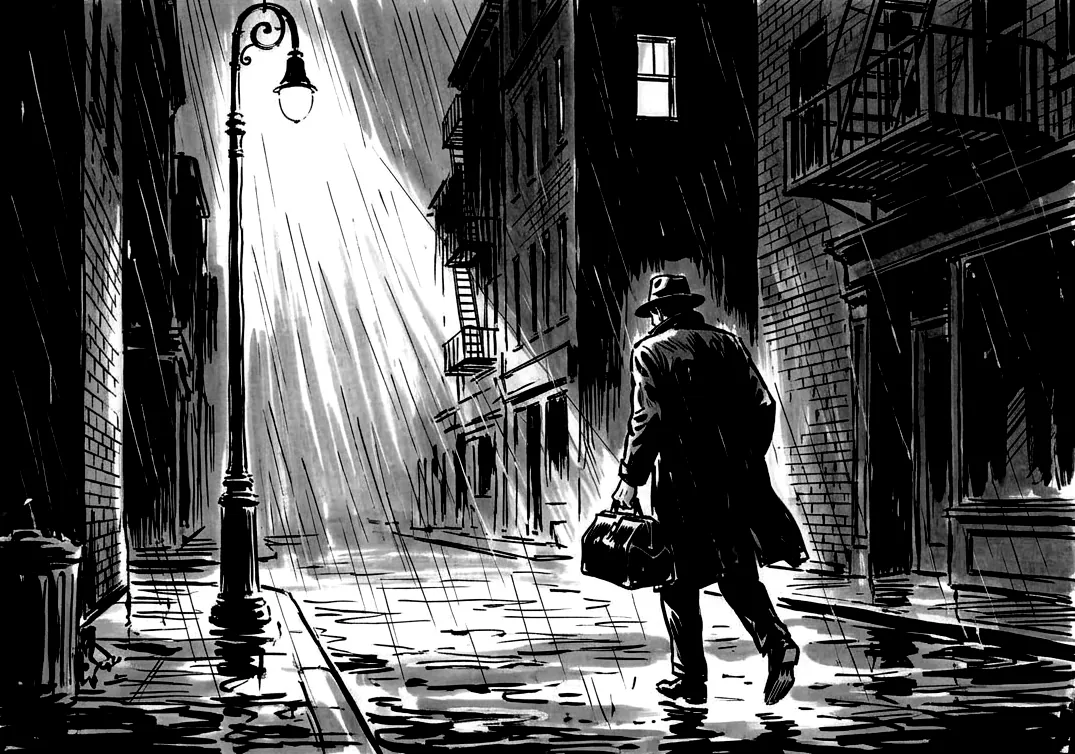
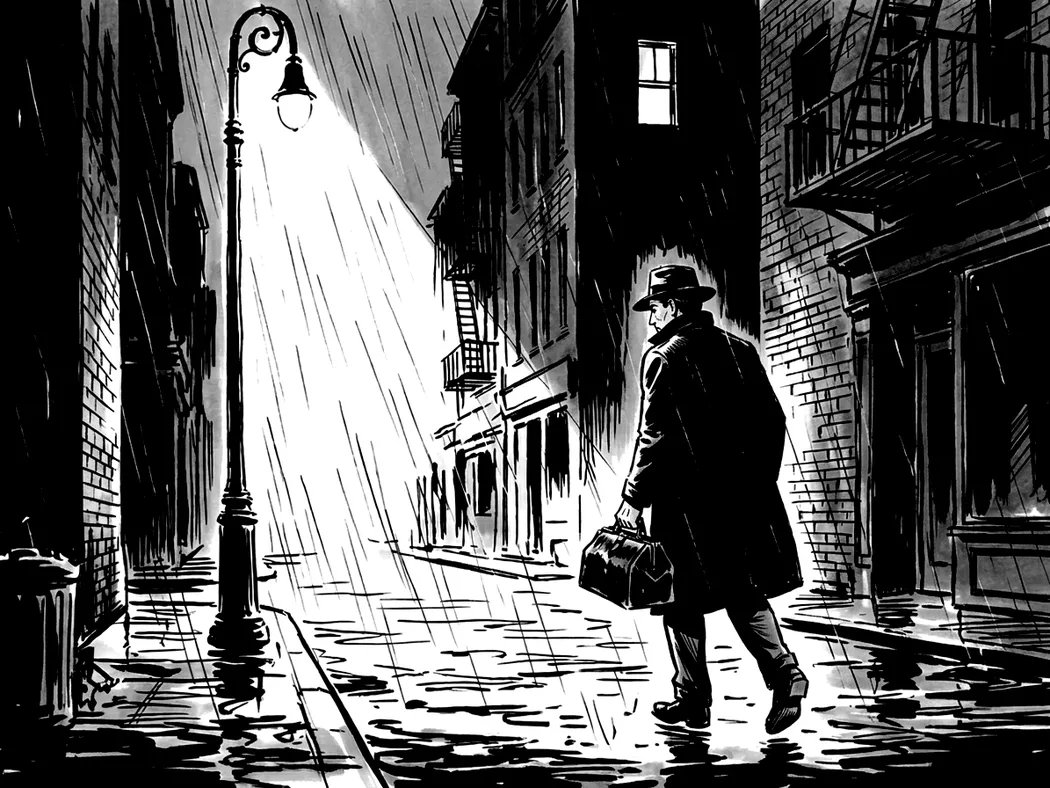
Läkarens nattbilder i den nya stilen med lavering
Jonas gillade utseendet men tyckte att stilen var för murrig
(Jonas 2026-11-14). Bilderna är omritade med de gamla som referens:
vit ljuskägla i stället för grått dis, svarta hus och sparsam lavering.
Mannen är gjord med kvinnans nya bild som referens, så att laveringen
ovanför lampan och längs fasaden blir densamma. Länken i bildsmak.md
pekar nu på den nya sidan Maffia bildprompter.

Claude-Session: https://claude.ai/code/session_01X82C4AptUEE9LHKngPSzUq

diff --git a/src/scenes/sceneImages.js b/src/scenes/sceneImages.js
@@ -113,10 +113,10 @@ export const SCENE_IMAGES = /** @type {const} */ ({
   nightMafia3: { src: nightMafia3, alt: 'En regnig gata med höga hus en natt. Två män i hatt står i en upplyst port, och en bil står parkerad under en gatlykta.', position: '55% 50%' },
   nightDetectiveWoman: { src: nightDetectiveWoman, alt: 'En kvinna i blus sitter vid ett skrivbord under en lampa en regnig natt, med hakan mot handen, och granskar ett fotografi med förstoringsglas.', position: '100% 40%' },
   nightDetectiveMan: { src: nightDetectiveMan, alt: 'En man i skjortärmar sitter vid ett skrivbord under en lampa en regnig natt och granskar ett fotografi med förstoringsglas.', position: '100% 40%' },
-  nightDoctorWoman: { src: nightDoctorWoman, alt: 'En kvinna i kappa med en läkarväska går ensam längs en regnig gata en natt och ser sig över axeln under en gatlykta.', position: '65% 50%' },
+  nightDoctorWoman: { src: nightDoctorWoman, alt: 'En kvinna i ljus kappa med skärp går ensam längs en regnig gata en natt med en läkarväska och ser sig över axeln. En gatlykta lyser upp gatan.', position: '65% 50%' },
   nightBodyguardWoman: { src: nightBodyguardWoman, alt: 'En livvakt i bältad rock och hatt står vakt med händerna i fickorna bredvid en stängd dörr, i ljuset från en gatlykta en regnig natt.', position: '85% 50%' },
   nightBodyguardMan: { src: nightBodyguardMan, alt: 'En stor livvakt i rock och hatt står vakt med händerna i fickorna bredvid en stängd dörr, i ljuset från en gatlykta en regnig natt.', position: '85% 50%' },
-  nightDoctorMan: { src: nightDoctorMan, alt: 'En man i hatt och rock med en läkarväska går ensam längs en regnig gata en natt under en gatlykta.', position: '65% 50%' },
+  nightDoctorMan: { src: nightDoctorMan, alt: 'En man i hatt och mörk rock går ensam bort längs en regnig gata en natt med en läkarväska och ser sig om. En gatlykta lyser upp gatan.', position: '65% 50%' },
   nightLawyerWoman: { src: nightLawyerWoman, alt: 'En advokat i dräkt, liten hatt och kattögonglasögon sitter vid ett köksbord under en hängande lampa och antecknar. Mitt emot syns bara klientens händer med en cigarett.', position: '75% 50%' },
   nightLawyerMan: { src: nightLawyerMan, alt: 'En gråsprängd advokat i kritstrecksrandig kostym sitter vid ett köksbord under en hängande lampa och antecknar. Mitt emot syns bara klientens händer med en cigarett.', position: '75% 50%' },
   nightCitizenWoman: { src: nightCitizenWoman, alt: 'En kvinna sover i sin säng. Genom fönstret syns en gestalt i hatt under en gatlykta i regnet.', position: '65% 50%' },

diff --git a/docs/bildsmak.md b/docs/bildsmak.md
@@ -73,11 +73,11 @@ på `src/scenes/images/`.
    godkända laveringsbilderna har 2,5–10,8 procent. Under gränsen avgör
    ögat vilken sorts grått det är.
    - Gillar, lavering: `roll-detektiv-*`, `natt-detektiv-*`,
-     `roll-taxichauffor-kvinna` (2026-11-14).
+     `roll-taxichauffor-kvinna`, `natt-lakare-*` (2026-11-14).
    - Gillar: `dom-kvinna`, `dom-man`, `roll-bartender-*`, `roll-korvgubbe-*`,
      `morgon-mord-trappa-kvinna`, `skapa`.
-   - Gillar inte: `natt-detektiv-*`, `natt-lakare-*` (grå tvätt över hela
-     bilden).
+   - Gillar inte (de gamla, nu bytta): `natt-detektiv-*`, `natt-lakare-*`
+     (grå tvätt över hela bilden).
    - Gränsfall: `morgon-mord-telefonkiosk-man`. Gillas, eftersom det grå bara
      är regn och glas och personen är svart och vit, men hade varit bättre
      utan.
@@ -219,7 +219,9 @@ en regel.
 
 - 2026-11-14, bildstilen i stort: "Jag är lite nyfiken på om vi skulle kunna
   få till en enhetlig bildstil." Förslaget finns i artefakten Maffia
-  bildprompter (<https://claude.ai/artifact/VXKnzaLmQAV7CQrsZFUDh6>).
+  bildprompter (<https://claude.ai/artifact/JA714wjfNoxPD3UvankR8F>). Den gamla
+  sidan Maffias bildprompter från 2026-11-09 är borttagen, så att de inte
+  blandas ihop (Jonas 2026-11-14).
 - 2026-11-14, text och blod: "Taxi och hotel tycker jag är ok, dvs text o form
   av skyltar som är universella. Pool of black blood tycker jag är ok, annars
   blir det inte en trovärdig bild, och eftersom det är svartvitt känns det
@@ -253,14 +255,19 @@ en regel.
 - 2026-11-14, `roll-advokat-kvinna` omgjord med den nya prompten och
   `roll-advokat-man` som referens, med egen gest (glasögonen i handen):
   "Mycket bra!"
+- 2026-11-14, `natt-lakare-*`: "Jag gillar utseendet men stilen är lite för
+  murrig." Omgjorda med de gamla bilderna som referens, vit ljuskägla och svarta
+  hus. Om första mannen: "det saknas lavering ovanför lampan och längs med
+  husfasaden, som finns i kvinnans bild". Mannen omgjord med kvinnans bild som
+  referens: "Det ser bra ut."
 
 ## Bilder att byta
 
 När bildansvarig kan ta fram bilder själv (via Gemini) byts de här först, i
 den här ordningen:
 
-1. Gillar inte: `natt-lakare-*`, `natt-maffia-1`–`3`. (`roll-detektiv-*` och
-   `natt-detektiv-*` byttes 2026-11-14.) (`ga-med` byttes 2026-11-13.)
+1. Gillar inte: `natt-maffia-1`–`3`. (`roll-detektiv-*`, `natt-detektiv-*`
+   och `natt-lakare-*` byttes 2026-11-14.) (`ga-med` byttes 2026-11-13.)
 2. `lobby` byttes 2026-11-13 mot samma bar som `skapa`, och `ga-med` mot
    barens bakdörr, så att Nytt spel, Gå med och lobbyn hänger ihop (Jonas
    2026-11-13).
